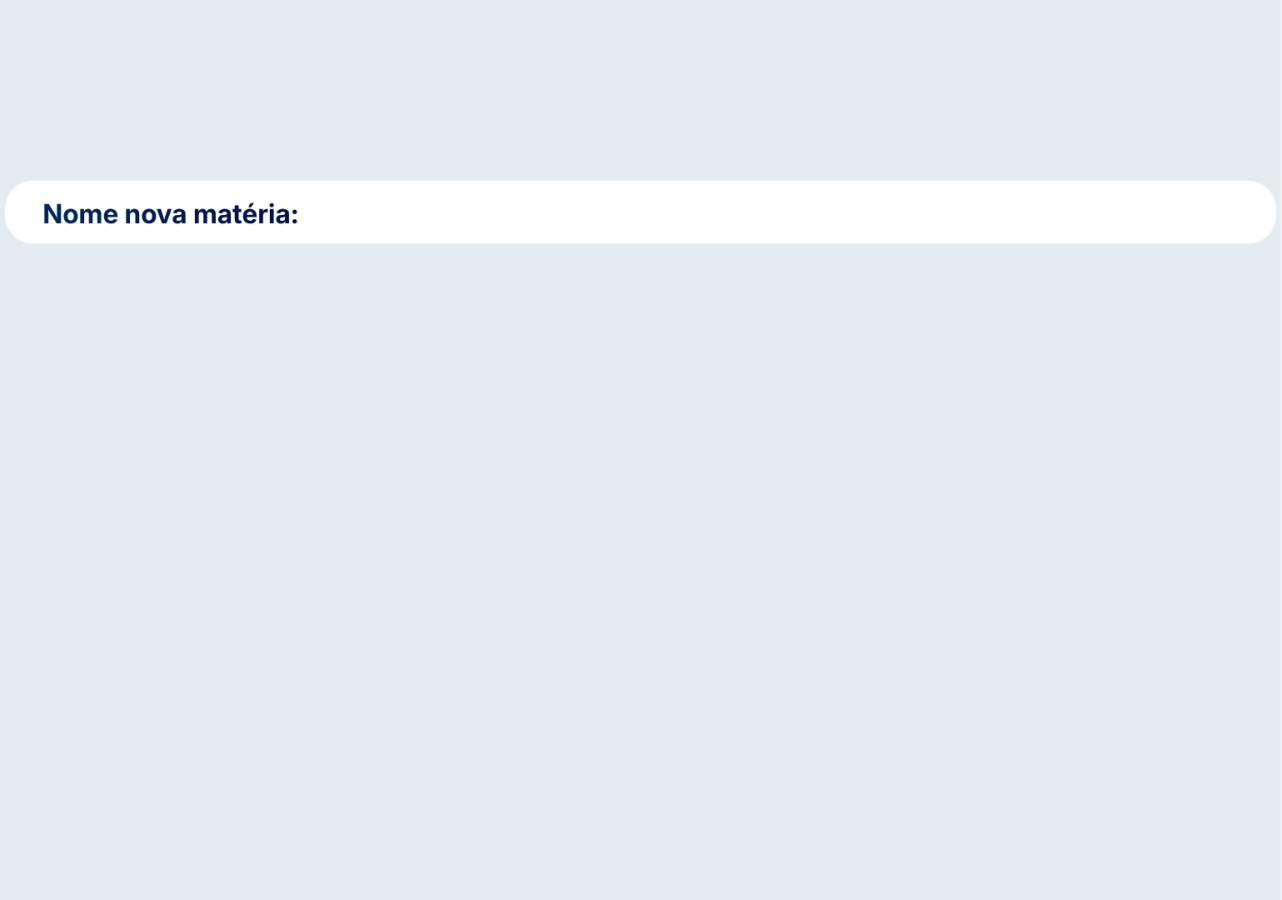
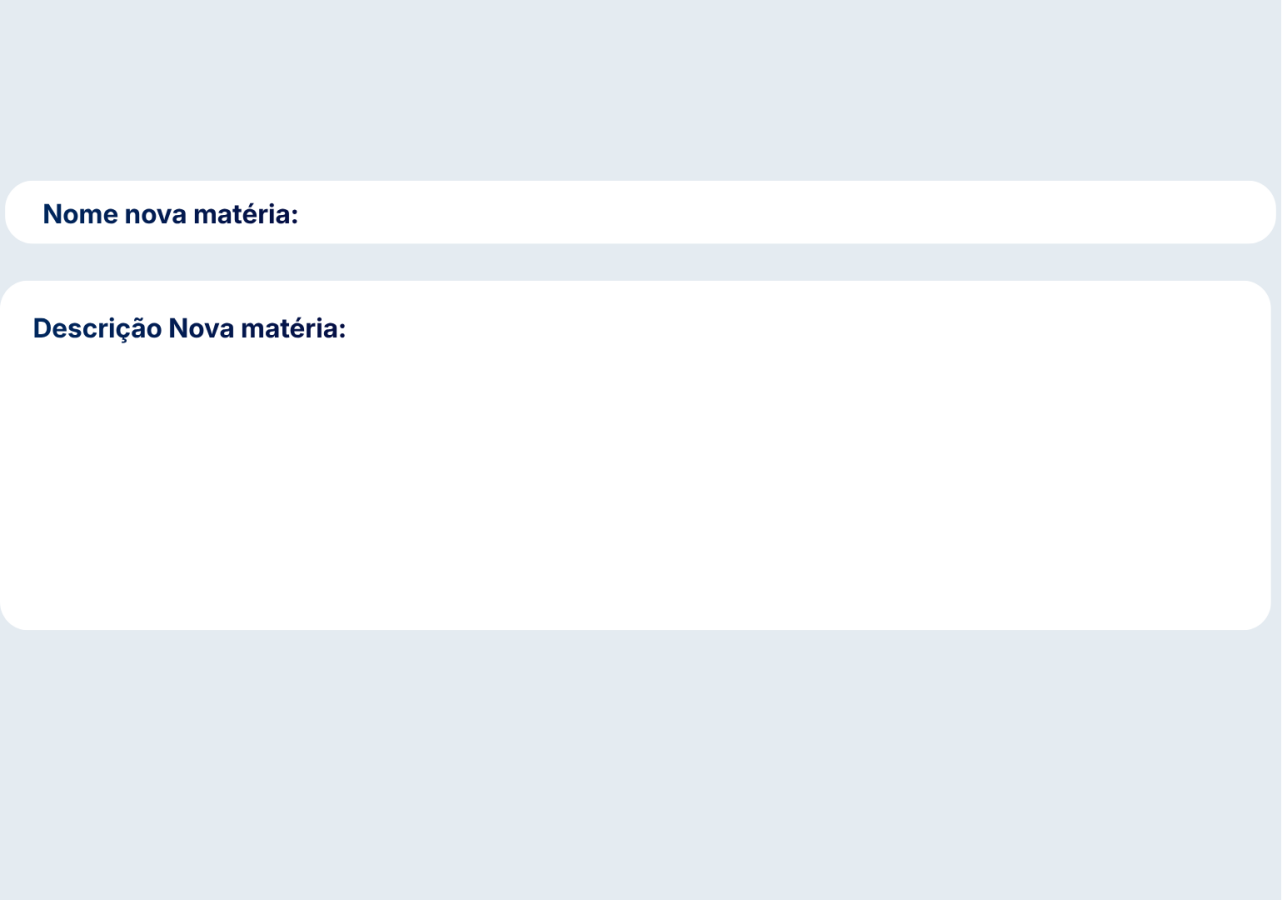
adicionei o cadastro da descrição na interface

diff --git a/interface.py b/interface.py
@@ -33,6 +33,7 @@ janela = None
 resto_tela = None
 nome_materia = None
 id_materia = None
+print_detalhes_materia = None
 
 def carregar_imagens():
     global imagem_tela_inicial
@@ -127,23 +128,26 @@ def cadastrar_nova_materia(materias):
     tela_cadastro_materia = tk.Label(resto_tela,image=imagem_tela_cadastro_materia)
     tela_cadastro_materia.place(x=0,y=0)
 
-    entrada_nome = tk.Entry(resto_tela,font=("Inter",12))
+    entrada_nome = tk.Entry(resto_tela,font=fonte_palavras)
     entrada_nome.place(x=300,y=200)
 
-    botao_confirmar = tk.Button(resto_tela,image=imagem_botao_confirmar,command=lambda: (gerenciamento_materias.cadastrar_materia(materias,entrada_nome.get()),interface(2,materias)))
+    entrada_descricao = tk.Entry(resto_tela,font=fonte_palavras)
+    entrada_descricao.place(x=347,y=315)
+
+    botao_confirmar = tk.Button(resto_tela,image=imagem_botao_confirmar,command=lambda: (gerenciamento_materias.cadastrar_materia(materias,entrada_nome.get(),entrada_descricao.get()),interface(2,materias)))    
     botao_confirmar.place(x=500,y=650)
 
 def mostrar_materias(materias):
     lista_materias = gerenciamento_materias.listar_materias(materias)
 
     for i, materia in enumerate(lista_materias):
-        botao_materia = tk.Button(resto_tela,text=materia["nome"],font=fonte_palavras,anchor="w",relief="flat",bd=0,bg=cor_branca,activebackground=cor_branca,command=lambda m=materia: (nome_materia.config(text=f"Nome: {m['nome']}"),print_id_materia.config(text=f"Id: {m['id']}")))
+        botao_materia = tk.Button(resto_tela,text=materia["nome"],font=fonte_palavras,anchor="w",relief="flat",bd=0,bg=cor_branca,activebackground=cor_branca,command=lambda m=materia: (nome_materia.config(text=f"Nome: {m['nome']}"),print_id_materia.config(text=f"Id: {m['id']}"),print_detalhes_materia.config(text=f"Descrição:{m['descricao']}")))
         botao_materia.place(x=40,y=100+i*40)
 
 def interface(tela,materias=None):
     global nome_materia
     global print_id_materia
-
+    global print_detalhes_materia
 
     if tela == 1:
         fundo = tk.Label(resto_tela,bg=cor_fundo,image=imagem_tela_inicial)
@@ -165,6 +169,8 @@ def interface(tela,materias=None):
         print_id_materia = tk.Label(resto_tela,text="",font=fonte_titulo,bg=cor_branca)
         print_id_materia.place(x=500,y=150)
 
+        print_detalhes_materia = tk.Label(resto_tela,text="",font=fonte_titulo,bg=cor_branca,wraplength=400,justify="left")
+        print_detalhes_materia.place(x=500,y=200)
         mostrar_materias(materias)
 
         

diff --git a/main.py b/main.py
@@ -4,9 +4,9 @@ import gerenciamento_materias
 
 tela = 1
 materias = [
-    {"id": 1, "nome": "Cálculo B"},
-    {"id": 2, "nome": "Álgebra Linear"},
-    {"id": 3, "nome": "Física 1"}
+    {"id": 1, "nome": "Cálculo B", "descricao": "Estudo de integrais, técnicas de integração e suas aplicações."},
+    {"id": 2, "nome": "Álgebra Linear", "descricao": "Estudo de matrizes, sistemas lineares, vetores e transformações lineares."},
+    {"id": 3, "nome": "Física 1", "descricao": "Estudo da mecânica clássica, incluindo cinemática, leis de Newton e trabalho e energia."}
 ]
 
 def mudar_tela(nova_tela):

diff --git a/gerenciamento_materias.py b/gerenciamento_materias.py
@@ -12,7 +12,7 @@ def cadastrar_materia(materias, nome, descricao = ""):
     for materia in materias:
         if materia["id"] >= novo_id:
             novo_id = materia["id"] + 1
-    nova_materia = {"id" : novo_id, "nome" : nome, "descricao:" : descricao}
+    nova_materia = {"id" : novo_id, "nome" : nome, "descricao" : descricao}
     materias.append(nova_materia)
     return nova_materia
 
